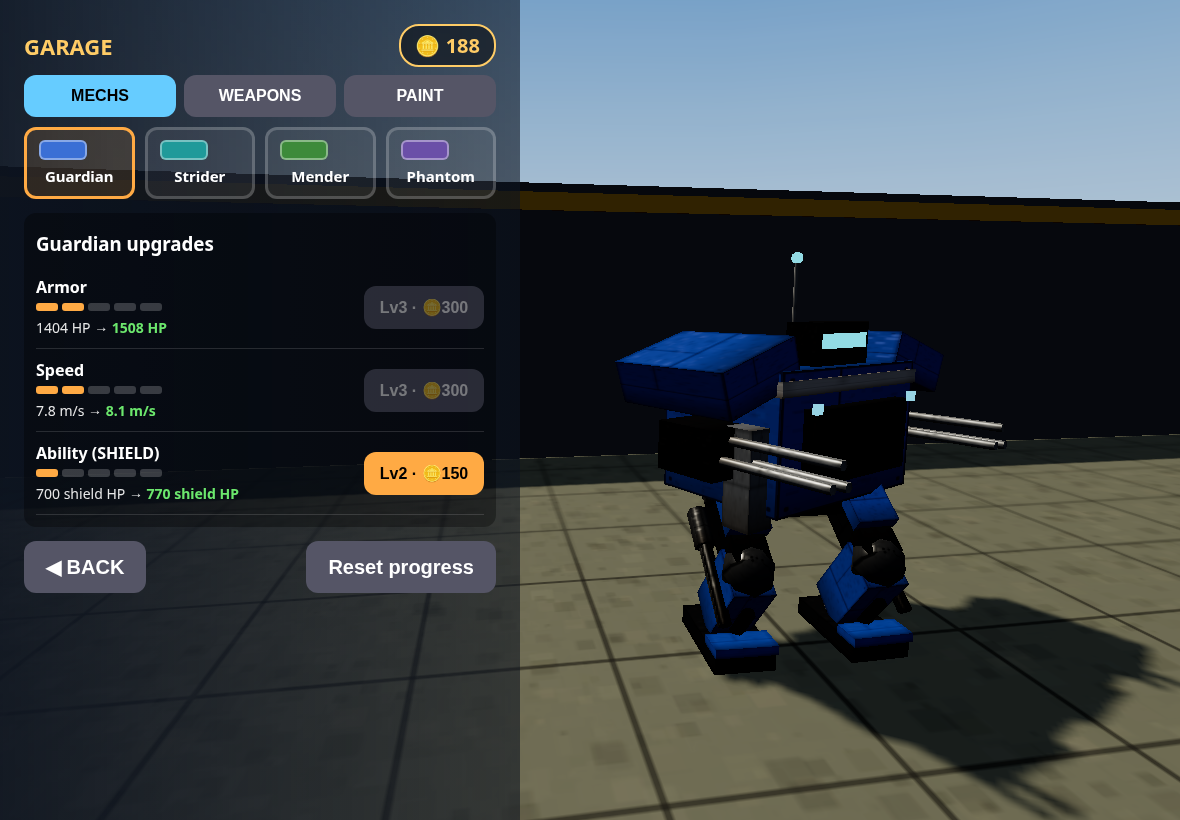
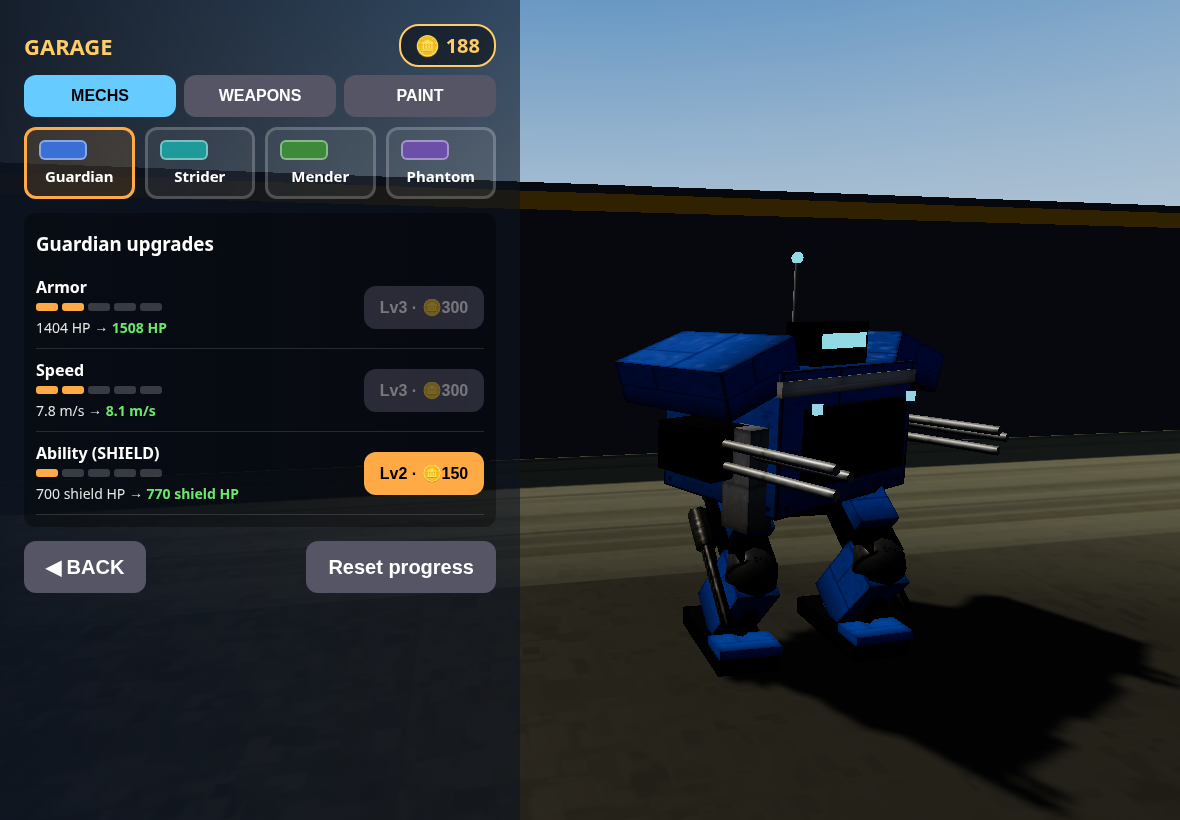
v10: 6 maps (5 new, larger), random/pick map, seeded props, minimap, AI avoidance, instanced props

Changed region(s): [[0.3051, 0.4878, 1.0, 1.0], [0.7322, 0.2439, 1.0, 0.3049], [0.0915, 0.1829, 0.1525, 0.2134]]

diff --git a/game.js b/game.js
@@ -110,21 +110,9 @@ function reward(win,why){const E=CFG.econ,md=settings.mode,mul=md==='duel'?E.due
  if(win&&why==='Enemy base captured')rows.push(['Base captured',E.capture]);
  let tot=rows.reduce((s,r)=>s+r[1],0);if(mul!==1){const x=Math.round(tot*mul)-tot;rows.push([`${CFG.diff[settings.diff].name} difficulty ×${mul}`,x]);tot+=x;}
  SAVE.coins+=tot;SAVE.earned+=tot;if(win)SAVE.wins++;persist();return {rows,tot};}
-const A=60;// half size
+let A=60;// half size (per map)
 function tex(w,h,draw,rep){const c=document.createElement('canvas');c.width=w;c.height=h;draw(c.getContext('2d'),w,h);const t=new THREE.CanvasTexture(c);t.colorSpace=THREE.SRGBColorSpace;if(rep){t.wrapS=t.wrapT=THREE.RepeatWrapping;t.repeat.set(rep,rep);}return t;}
 // gradient sky
-const skyT=tex(8,256,(g,w,h)=>{const gr=g.createLinearGradient(0,0,0,h);gr.addColorStop(0,'#1e3a68');gr.addColorStop(.35,'#4f7db5');gr.addColorStop(.5,'#a9c3dc');gr.addColorStop(.53,'#e8dcc0');gr.addColorStop(1,'#6b6352');g.fillStyle=gr;g.fillRect(0,0,w,h);});
-const skyDome=new THREE.Mesh(new THREE.SphereGeometry(200,24,12),new THREE.MeshBasicMaterial({map:skyT,side:THREE.BackSide,fog:false,depthWrite:false}));S.add(skyDome);
-{const sun=new THREE.Mesh(new THREE.SphereGeometry(6,12,8),new THREE.MeshBasicMaterial({color:0xfff4d0,fog:false}));sun.position.set(30,50,20).normalize().multiplyScalar(190);skyDome.add(sun);}
-// environment map for metal reflections (PMREM of the sky dome)
-{const es=new THREE.Scene();es.add(skyDome.clone());const pm=new THREE.PMREMGenerator(R);S.environment=pm.fromScene(es,0.04).texture;pm.dispose();}
-S.background=new THREE.Color(0x8fb4d8);
-S.fog=new THREE.Fog(0xb9bfc0,50,150);
-// procedural ground: concrete tiles + dirt noise + painted lines
-const groundT=tex(256,256,(g,w,h)=>{g.fillStyle='#6d6f5e';g.fillRect(0,0,w,h);for(let i=0;i<900;i++){g.fillStyle=`rgba(${Math.random()<.5?'40,40,30':'150,145,120'},${Math.random()*.15})`;const r=Math.random()*10;g.fillRect(Math.random()*w,Math.random()*h,r,r);}
- g.strokeStyle='rgba(30,30,25,.55)';g.lineWidth=2;for(let i=0;i<=4;i++){g.beginPath();g.moveTo(i*64,0);g.lineTo(i*64,h);g.moveTo(0,i*64);g.lineTo(w,i*64);g.stroke();}},12);
-const groundR=tex(128,128,(g,w,h)=>{g.fillStyle='#ddd';g.fillRect(0,0,w,h);for(let i=0;i<500;i++){const v=150+Math.random()*105|0;g.fillStyle=`rgb(${v},${v},${v})`;g.fillRect(Math.random()*w,Math.random()*h,3+Math.random()*8,3+Math.random()*8);}},24);groundR.colorSpace=THREE.NoColorSpace;
-const ground=new THREE.Mesh(new THREE.PlaneGeometry(A*2,A*2),new THREE.MeshStandardMaterial({map:groundT,roughnessMap:groundR,roughness:1,metalness:0}));ground.rotation.x=-Math.PI/2;ground.receiveShadow=true;S.add(ground);
 const LEG={hipY:2.5,L1:1.2,L2:1.2,foot:.25,idleKnee:.25,strideRate:1.5};
 const jointG=new THREE.SphereGeometry(.34,8,6),pistonG=new THREE.CylinderGeometry(.09,.09,1,6);
 // mech metal: PBR with procedural panel lines + grime (map) and roughness variation
@@ -137,33 +125,123 @@ const M=(c,o={})=>new THREE.MeshStandardMaterial({color:c,map:panelT,roughnessMa
 const antG=new THREE.CylinderGeometry(.04,.04,1.3,4),barrelG=new THREE.CylinderGeometry(.1,.1,1.4,6),tubeG=new THREE.CylinderGeometry(.13,.13,.15,6),flashG=new THREE.ConeGeometry(.35,1,6);
 const _mc={};const MS={metal:M(0x9aa0a6),dark:M(0x111111),flash:new THREE.MeshBasicMaterial({color:0xffe080}),
  stripe:c=>_mc['s'+c]||(_mc['s'+c]=M(c===0x3a7bd5?0xf0f0f0:0x111111)),visor:c=>_mc['v'+c]||(_mc['v'+c]=new THREE.MeshBasicMaterial({color:c===0x3a7bd5?0x40e0ff:0xff4020}))};
-const boxG=new THREE.BoxGeometry(1,1,1);
-const obst=[];// {x,z,hx,hz,h}
+// ================= MAPS (v10) =================
+const skyC=document.createElement('canvas');skyC.width=8;skyC.height=256;const skyT=new THREE.CanvasTexture(skyC);skyT.colorSpace=THREE.SRGBColorSpace;
+function paintSky(st){const g=skyC.getContext('2d'),gr=g.createLinearGradient(0,0,0,256);st.forEach(([o,c])=>gr.addColorStop(o,c));g.fillStyle=gr;g.fillRect(0,0,8,256);skyT.needsUpdate=true;}
+paintSky([[0,'#1e3a68'],[.35,'#4f7db5'],[.5,'#a9c3dc'],[.53,'#e8dcc0'],[1,'#6b6352']]);
+const skyDome=new THREE.Mesh(new THREE.SphereGeometry(200,24,12),new THREE.MeshBasicMaterial({map:skyT,side:THREE.BackSide,fog:false,depthWrite:false}));skyDome.renderOrder=-1;S.add(skyDome);
+const sunM=new THREE.Mesh(new THREE.SphereGeometry(6,12,8),new THREE.MeshBasicMaterial({color:0xfff4d0,fog:false}));sunM.position.set(30,50,20).normalize().multiplyScalar(190);skyDome.add(sunM);
+let envRT=null;function bakeEnv(){const es=new THREE.Scene();const d=skyDome.clone();d.scale.setScalar(1);d.position.set(0,0,0);es.add(d);const pm=new THREE.PMREMGenerator(R);if(envRT)envRT.dispose();envRT=pm.fromScene(es,0.04);S.environment=envRT.texture;pm.dispose();}
+S.background=new THREE.Color(0x8fb4d8);S.fog=new THREE.Fog(0xb9bfc0,50,150);
+const groundR=tex(128,128,(g,w,h)=>{g.fillStyle='#ddd';g.fillRect(0,0,w,h);for(let i=0;i<500;i++){const v=150+Math.random()*105|0;g.fillStyle=`rgb(${v},${v},${v})`;g.fillRect(Math.random()*w,Math.random()*h,3+Math.random()*8,3+Math.random()*8);}},24);groundR.colorSpace=THREE.NoColorSpace;
+const groundMat=new THREE.MeshStandardMaterial({roughnessMap:groundR,roughness:1,metalness:0});
+const ground=new THREE.Mesh(new THREE.PlaneGeometry(1,1),groundMat);ground.rotation.x=-Math.PI/2;ground.receiveShadow=true;S.add(ground);
+let rnd=Math.random;function seeded(s){return()=>{s|=0;s=s+0x6D2B79F5|0;let t=Math.imul(s^s>>>15,1|s);t=t+Math.imul(t^t>>>7,61|t)^t;return((t^t>>>14)>>>0)/4294967296;};}
+const R2=(a,b)=>a+rnd()*(b-a);
+function groundTex(th){return tex(256,256,(g,w,h)=>{g.fillStyle=th.g[0];g.fillRect(0,0,w,h);for(let i=0;i<1100;i++){g.fillStyle=Math.random()<.5?th.g[1]:th.g[2];g.globalAlpha=Math.random()*.18;const r=Math.random()*12;g.fillRect(Math.random()*w,Math.random()*h,r,r*(th.streak||1));}g.globalAlpha=1;
+ if(th.lines){g.strokeStyle=th.lines;g.lineWidth=2;for(let i=0;i<=4;i++){g.beginPath();g.moveTo(i*64,0);g.lineTo(i*64,h);g.moveTo(0,i*64);g.lineTo(w,i*64);g.stroke();}}
+ if(th.ripple){g.strokeStyle=th.ripple;g.lineWidth=2;for(let y=0;y<h;y+=14){g.beginPath();for(let x=0;x<=w;x+=8)g.lineTo(x,y+Math.sin(x/20+y)*4);g.stroke();}}});}
+const MAPG=new THREE.Group();S.add(MAPG);
+const boxG=new THREE.BoxGeometry(1,1,1),pillarG=new THREE.CylinderGeometry(.9,1.1,8,8),rockG=new THREE.DodecahedronGeometry(1,0),domeG=new THREE.SphereGeometry(1,16,8,0,Math.PI*2,0,Math.PI/2),cylG=new THREE.CylinderGeometry(1,1,1,12),poleG=new THREE.CylinderGeometry(.12,.15,6,6),bulbG=new THREE.SphereGeometry(.35,8,6);
+const obst=[];const obstMeshes=[];// {x,z,hx,hz,h,m}
 const winT=tex(64,64,(g,w,h)=>{g.fillStyle='#8a8478';g.fillRect(0,0,w,h);for(let y=0;y<2;y++)for(let x=0;x<2;x++){g.fillStyle=Math.random()<.3?'#ffd98a':'#1d2630';g.fillRect(x*32+8,y*32+8,16,14);}g.fillStyle='#6a655c';g.fillRect(0,30,64,3);});
 const crateT=tex(64,64,(g,w,h)=>{g.fillStyle='#8b6a3c';g.fillRect(0,0,w,h);g.strokeStyle='#5a4220';g.lineWidth=6;g.strokeRect(3,3,58,58);g.beginPath();g.moveTo(0,0);g.lineTo(64,64);g.stroke();});
 const contT=tex(128,64,(g,w,h)=>{g.fillStyle='#fff';g.fillRect(0,0,w,h);for(let x=0;x<w;x+=8){g.fillStyle='rgba(0,0,0,.25)';g.fillRect(x,0,3,h);}});
-const matCache={};function mat(c,map){const key=c+(map?map.uuid:'');return matCache[key]||(matCache[key]=new THREE.MeshStandardMaterial({color:c,map,roughness:0.85,metalness:0.05}));}
-function solid(x,z,w,d,h,material,ry=0){const m=new THREE.Mesh(boxG,material);m.scale.set(w,h,d);m.position.set(x,h/2,z);m.rotation.y=ry;m.castShadow=m.receiveShadow=true;S.add(m);if(ry){const t=w;if(Math.abs(Math.sin(ry))>.7){w=d;d=t;}}obst.push({x,z,hx:w/2,hz:d/2,h,m});return m;}
+const rockT=tex(64,64,(g,w,h)=>{g.fillStyle='#fff';g.fillRect(0,0,w,h);for(let i=0;i<300;i++){g.fillStyle=`rgba(0,0,0,${Math.random()*.2})`;g.fillRect(Math.random()*w,Math.random()*h,2+Math.random()*8,1+Math.random()*3);}});
+const matCache={};function mat(c,map,o){const key=c+(map?map.uuid:'')+(o?JSON.stringify(o):'');return matCache[key]||(matCache[key]=new THREE.MeshStandardMaterial({color:c,map,roughness:0.85,metalness:0.05,...(o||{})}));}
+// instanced batching: every static prop is collected and drawn as one InstancedMesh per (geometry,material)
+let batch=new Map();const _o=new THREE.Object3D();
+function put(geo,material,x,y,z,sx,sy,sz,ry=0,shadow=true){const k=geo.uuid+material.uuid;let b=batch.get(k);if(!b){b={geo,material,mats:[],shadow,col:[]};batch.set(k,b);}_o.position.set(x,y,z);_o.rotation.set(0,ry,0);_o.scale.set(sx,sy,sz);_o.updateMatrix();b.mats.push(_o.matrix.clone());return b;}
+function solid(x,z,w,d,h,material,ry=0,y0=0){const b=put(boxG,material,x,y0+h/2,z,w,h,d,ry);if(ry&&Math.abs(Math.sin(ry))>.7){const t=w;w=d;d=t;}const o={x,z,hx:w/2,hz:d/2,h:y0+h};obst.push(o);b.col.push(o);return o;}
+function deco(geo,material,x,y,z,sx,sy,sz,ry){put(geo,material,x,y,z,sx,sy??sx,sz??sx,ry);}
+function flushBatch(){for(const b of batch.values()){const im=new THREE.InstancedMesh(b.geo,b.material,b.mats.length);b.mats.forEach((m,i)=>im.setMatrixAt(i,m));im.castShadow=b.shadow;im.receiveShadow=true;im.computeBoundingSphere();MAPG.add(im);if(b.col.length){b.col.forEach(o=>o.m=im);obstMeshes.push(im);}}batch=new Map();}
 function wall(x,z,w,d,h,c=0x8a8a80){return solid(x,z,w,d,h,mat(c));}
-function building(x,z,w,d,h){const t=winT.clone();t.needsUpdate=true;t.wrapS=t.wrapT=THREE.RepeatWrapping;t.repeat.set(Math.round(w/3),Math.round(h/3));solid(x,z,w,d,h,new THREE.MeshStandardMaterial({map:t,roughness:.8,metalness:.1}));const r=new THREE.Mesh(boxG,mat(0x4a4a48));r.scale.set(w+.4,.4,d+.4);r.position.set(x,h+.2,z);S.add(r);}
-function ruin(x,z,len,horiz){const n=4,seg=len/n;for(let i=0;i<n;i++){const h=1.5+Math.random()*3.5,o=-len/2+seg*(i+.5);horiz?solid(x+o,z,seg,1.2,h,mat(0x9a8f78)):solid(x,z+o,1.2,seg,h,mat(0x9a8f78));}}
+const bldMats={};function building(x,z,w,d,h,c=0x8a8478){const k=Math.round(w/3)+'_'+Math.round(h/3)+c;let m=bldMats[k];if(!m){const t=winT.clone();t.needsUpdate=true;t.wrapS=t.wrapT=THREE.RepeatWrapping;t.repeat.set(Math.round(w/3),Math.round(h/3));m=bldMats[k]=new THREE.MeshStandardMaterial({map:t,color:new THREE.Color(c).lerp(new THREE.Color(0xffffff),.5),roughness:.8,metalness:.1});}
+ solid(x,z,w,d,h,m);deco(boxG,mat(0x4a4a48),x,h+.2,z,w+.4,.4,d+.4);}
+function ruin(x,z,len,horiz,c=0x9a8f78){const n=4,seg=len/n;for(let i=0;i<n;i++){const h=1.5+rnd()*3.5,o=-len/2+seg*(i+.5);horiz?solid(x+o,z,seg,1.2,h,mat(c)):solid(x,z+o,1.2,seg,h,mat(c));}}
 function crate(x,z,s=2){solid(x,z,s,s,s,mat(0xffffff,crateT));}
-function container(x,z,horiz,c){horiz?solid(x,z,8,3,3,mat(c,contT)):solid(x,z,3,8,3,mat(c,contT));}
-function pillar(x,z){const m=new THREE.Mesh(pillarG,mat(0x9a9890));m.position.set(x,4,z);m.castShadow=m.receiveShadow=true;S.add(m);obst.push({x,z,hx:.9,hz:.9,h:8,m});}
-function platform(x,z,w,d){solid(x,z,w,d,1.6,mat(0x7d7a70));const rl=new THREE.Mesh(boxG,mat(0xc8a030));rl.scale.set(w,.3,.3);rl.position.set(x,1.9,z-d/2+.15);S.add(rl);}
-const pillarG=new THREE.CylinderGeometry(.9,1.1,8,8);
-// boundary: tall walls with hazard trim
-for(const [x,z,w,d] of [[0,-A,A*2,2],[0,A,A*2,2],[-A,0,2,A*2],[A,0,2,A*2]]){wall(x,z,w,d,8,0x5a5d62);const t=new THREE.Mesh(boxG,mat(0xd0a020));t.scale.set(w+.1,.5,d+.1);t.position.set(x,7.5,z);S.add(t);}
-building(0,0,9,9,10);building(-38,-38,10,8,12);building(38,38,8,10,11);building(-40,36,8,8,9);building(40,-36,9,8,13);
-ruin(-25,-20,12,true);ruin(25,20,12,true);ruin(-25,22,12,false);ruin(25,-22,12,false);
-container(0,-34,true,0xb03a2e);container(0,34,true,0x2e6bb0);container(-44,0,false,0x2e8a4a);container(44,0,false,0xc07a20);
-crate(-12,12);crate(-10,13.5,1.5);crate(12,-12);crate(13.7,-10.5,1.5);crate(14,14);crate(-14,-14);crate(-30,5,2.5);crate(30,-5,2.5);
-pillar(-18,0);pillar(18,0);pillar(0,-18);pillar(0,18);
-platform(-12,-36,6,4);platform(12,36,6,4);
-// lamp props (emissive only, no real lights)
-{const poleG=new THREE.CylinderGeometry(.12,.15,6,6),bulbG=new THREE.SphereGeometry(.35,8,6),bm=new THREE.MeshBasicMaterial({color:0xfff2b0}),pm=mat(0x333333);
- for(const [x,z] of [[-20,-45],[20,-45],[-20,45],[20,45],[-50,-20],[50,20],[-50,20],[50,-20]]){const p=new THREE.Mesh(poleG,pm);p.position.set(x,3,z);const b=new THREE.Mesh(bulbG,bm);b.position.set(x,6.1,z);S.add(p,b);}}
-const obstMeshes=obst.map(o=>o.m);
+function container(x,z,horiz,c,stack=1){for(let i=0;i<stack;i++)horiz?solid(x,z,8,3,3,mat(c,contT),0,i*3):solid(x,z,3,8,3,mat(c,contT),0,i*3);}
+function pillar(x,z,c=0x9a9890){deco(pillarG,mat(c),x,4,z,1,1,1);obst.push({x,z,hx:.9,hz:.9,h:8,m:null,pil:1});}
+function platform(x,z,w,d){solid(x,z,w,d,1.6,mat(0x7d7a70));deco(boxG,mat(0xc8a030),x,1.9,z-d/2+.15,w,.3,.3);}
+function rock(x,z,s,c,h){h=h||s*1.2;deco(rockG,mat(c,rockT),x,h*.45,z,s,h*.6,s,rnd()*6);obst.push({x,z,hx:s*.75,hz:s*.75,h:h*.9,m:null});}
+function mesa(x,z,w,d,h,c){solid(x,z,w,d,h,mat(c,rockT));for(let i=0;i<3;i++)deco(rockG,mat(c,rockT),x+R2(-w/2,w/2),R2(.5,h*.5),z+(rnd()<.5?-1:1)*d/2,R2(1.5,3));}
+function stairsX(xe,z,dir,w,top){const n=Math.ceil(top/.38);for(let i=1;i<n;i++)solid(xe+dir*(i-.5)*1.3,z,1.3,w,top*(n-i)/n,mat(0x8a6a50,rockT));}
+function dome(x,z,r,c){deco(domeG,mat(c,null,{metalness:.3,roughness:.4}),x,0,z,r,r*.8,r);obst.push({x,z,hx:r*.7,hz:r*.7,h:r*.8,m:null});}
+function tank(x,z,r,h,c){deco(cylG,mat(c,null,{metalness:.5,roughness:.5}),x,h/2,z,r,h,r);obst.push({x,z,hx:r*.85,hz:r*.85,h,m:null});}
+function lamp(x,z,c=0xfff2b0){deco(poleG,mat(0x333333),x,3,z,1,1,1);deco(bulbG,new THREE.MeshBasicMaterial({color:c}),x,6.1,z,1);}
+function border(c=0x5a5d62,h=8,trim=0xd0a020){for(const [x,z,w,d] of [[0,-A,A*2,2],[0,A,A*2,2],[-A,0,2,A*2],[A,0,2,A*2]]){wall(x,z,w,d,h,c);deco(boxG,mat(trim),x,h-.5,z,w+.1,.5,d+.1);}}
+// reserved zones: keep spawn lanes and bases clear
+function free(x,z,r){if(Math.abs(x)>A-r-3||Math.abs(z)>A-r-3)return false;if(Math.abs(x)<14+r&&Math.abs(z)>A-22-r)return false;for(const o of obst)if(Math.abs(x-o.x)<o.hx+r+3&&Math.abs(z-o.z)<o.hz+r+3)return false;return true;}
+function scatter(n,r,fn,tries=40){for(let i=0;i<n;i++)for(let t=0;t<tries;t++){const x=R2(-A,A),z=R2(-A,A);if(free(x,z,r)){fn(x,z);break;}}}
+function mirror(fn){fn(1);fn(-1);}// point-symmetric layouts for fairness
+const MAPS={
+ arena:{name:'Arena',A:60,sky:[[0,'#1e3a68'],[.35,'#4f7db5'],[.5,'#a9c3dc'],[.53,'#e8dcc0'],[1,'#6b6352']],bg:0x8fb4d8,fog:[0xb9bfc0,50,150],hemi:[0xcfe0ff,0x5a5040,.7],sun:[0xfff0d8,2.6],
+  ground:{g:['#6d6f5e','rgb(40,40,30)','rgb(150,145,120)'],lines:'rgba(30,30,25,.55)'},rep:12,
+  build(){border();building(0,0,9,9,10);building(-38,-38,10,8,12);building(38,38,8,10,11);building(-40,36,8,8,9);building(40,-36,9,8,13);
+  ruin(-25,-20,12,true);ruin(25,20,12,true);ruin(-25,22,12,false);ruin(25,-22,12,false);
+  container(0,-34,true,0xb03a2e);container(0,34,true,0x2e6bb0);container(-44,0,false,0x2e8a4a);container(44,0,false,0xc07a20);
+  crate(-12,12);crate(-10,13.5,1.5);crate(12,-12);crate(13.7,-10.5,1.5);crate(14,14);crate(-14,-14);crate(-30,5,2.5);crate(30,-5,2.5);
+  pillar(-18,0);pillar(18,0);pillar(0,-18);pillar(0,18);platform(-12,-36,6,4);platform(12,36,6,4);
+  for(const [x,z] of [[-20,-45],[20,-45],[-20,45],[20,45],[-50,-20],[50,20],[-50,20],[50,-20]])lamp(x,z);}},
+ desert:{name:'Desert Outpost',A:85,sky:[[0,'#3b6fb0'],[.4,'#8bb6dd'],[.5,'#f2dcb0'],[.53,'#e6c48a'],[1,'#a07a48']],bg:0xe8d2a8,fog:[0xe6cfa0,60,175],hemi:[0xfff0d0,0x9a7040,.8],sun:[0xffe6b8,3],
+  ground:{g:['#c9a46a','rgb(150,110,60)','rgb(240,210,150)'],ripple:'rgba(140,100,50,.25)'},rep:16,
+  build(){border(0xb08a58,7,0x7a5a30);mirror(s=>{mesa(s*32,s*-10,16,12,9,0xb06a3a);mesa(s*-45,s*30,12,18,11,0xa8643a);mesa(s*8,s*38,10,8,6,0xb87444);
+   solid(s*-22,s*-30,10,5,2.6,mat(0x8a8060));solid(s*22,s*14,5,10,2.6,mat(0x8a8060));// bunkers
+   ruin(s*55,s*-45,14,false,0xc0a070);container(s*-60,s*-8,false,0x9a6a30);platform(s*14,s*-58,7,4);
+   for(const [x,z] of [[-10,0],[10,0]])solid(s*x,s*z+s*8,6,2,1.6,mat(0x9a8a60));});
+   solid(0,0,8,8,5,mat(0x8a7a58));deco(boxG,mat(0x5a4a30),0,5.3,0,9,.6,9);
+   scatter(16,2,(x,z)=>rock(x,z,R2(1.6,3.2),0xa86c40));scatter(10,1.2,(x,z)=>crate(x,z,R2(1.5,2.4)));
+   for(let i=0;i<14;i++){const x=R2(-A,A),z=R2(-A,A);deco(domeG,mat(0xd8b47a),x,-.15,z,R2(4,9),R2(.3,.55),R2(4,9),rnd()*3);}}},
+ city:{name:'Ruined City',A:80,sky:[[0,'#3a3e48'],[.4,'#6a6e76'],[.5,'#a09a90'],[.53,'#8a847a'],[1,'#3e3a36']],bg:0x8a8a88,fog:[0x8f8c86,35,135],hemi:[0xc8ccd8,0x4a4440,.75],sun:[0xffe8d0,2],
+  ground:{g:['#4a4c50','rgb(30,30,32)','rgb(110,110,105)'],lines:'rgba(220,200,90,.5)'},rep:14,
+  build(){border(0x4a4c52,10,0x9a2020);// city blocks with streets every 32 m, alleys inside
+   for(const bx of [-48,-16,16,48])for(const bz of [-36,-4,28]){if(Math.abs(bx)<20&&Math.abs(bz)>30)continue;const n=1+(rnd()*2|0);
+    for(let i=0;i<n;i++){const w=R2(7,11),d=R2(7,11),ox=n>1?(i?5:-5):R2(-2,2);const x=bx+ox,z=bz+R2(-3,3);if(!free(x,z,Math.max(w,d)/2-3))continue;
+     rnd()<.25?(ruin(x,z,w,true,0x7a7470),ruin(x,z+d/2,d,false,0x7a7470)):building(x,z,w,d,R2(10,24),[0x9a9490,0x7a6e66,0x8a8a92][rnd()*3|0]);}}
+   scatter(26,1.5,(x,z)=>{const r=rnd();r<.45?deco(rockG,mat(0x6a6660,rockT),x,.4,z,R2(1,2.2),R2(.5,1),R2(1,2.2)):r<.7?solid(x,z,R2(3,6),1.2,R2(1,2.2),mat(0x77706a),rnd()<.5?0:Math.PI/2):container(x,z,rnd()<.5,0x8a3a2a);});
+   scatter(10,1,(x,z)=>{solid(x,z,4,2,1.4,mat(0x3a5a7a));deco(boxG,mat(0x222222),x,1.6,z,3.4,.6,1.6);});// wrecked cars
+   for(const x of [-64,-32,0,32,64])for(const z of [-60,60])if(Math.abs(x)>20)lamp(x,z,0xffc070);}},
+ port:{name:'Industrial Port',A:90,sky:[[0,'#24466e'],[.4,'#6b90b8'],[.5,'#c8d4dc'],[.53,'#9aa6ae'],[1,'#3a4650']],bg:0xa8b8c4,fog:[0xa6b4bc,45,165],hemi:[0xd0e0f0,0x405060,.8],sun:[0xfff4e0,2.4],
+  ground:{g:['#7a7c78','rgb(50,52,50)','rgb(140,140,130)'],lines:'rgba(40,40,40,.45)'},rep:18,
+  build(){for(const [x,z,w,d] of [[0,-A,A*2,2],[0,A,A*2,2],[-A,0,2,A*2]]){wall(x,z,w,d,8,0x5a6068);deco(boxG,mat(0xe0b020),x,7.5,z,w+.1,.5,d+.1);}
+   solid(A,0,2,A*2,1.2,mat(0x44403a));for(let z=-A+6;z<A;z+=12)deco(cylG,mat(0x222222),A-1.5,.8,z,.4,1.6,.4);// quay edge + bollards
+   const wat=new THREE.Mesh(new THREE.PlaneGeometry(160,A*2+200),new THREE.MeshStandardMaterial({color:0x1d4a66,roughness:.15,metalness:.6}));wat.rotation.x=-Math.PI/2;wat.position.set(A+80,-.6,0);MAPG.add(wat);
+   const cc=[0xb03a2e,0x2e6bb0,0x2e8a4a,0xc07a20,0x6a4a8a,0x8a8a8a];
+   mirror(s=>{for(let r=0;r<3;r++)for(let c=0;c<2;c++){const x=s*(20+c*10+R2(-1,1)),z=s*(-20+r*16);if(rnd()<.85)container(x,z,false,cc[rnd()*6|0],1+(rnd()<.4));}
+    building(s*-55,s*-45,22,14,12,0x8a8a92);building(s*-60,s*35,16,22,10,0x7a8088);
+    for(let i=0;i<3;i++)container(s*(-24-i*9),s*48,true,cc[rnd()*6|0]);platform(s*45,s*55,8,4);tank(s*65,s*-62,4,7,0xc8c8c0);});
+   for(const z of [-30,30]){for(const dx of [-3,3])for(const dz of [-3,3])solid(70+dx,z+dz,1,1,18,mat(0xd0a020,null,{metalness:.6,roughness:.5}));deco(boxG,mat(0xd0a020),70-6,19,z,30,1.4,1.6);}// cranes
+   scatter(14,1.2,(x,z)=>crate(x,z,R2(1.5,2.5)));for(const z of [-75,-25,25,75])lamp(80,z);}},
+ arctic:{name:'Arctic Base',A:80,sky:[[0,'#5a7aa0'],[.4,'#a8c0d8'],[.5,'#e8f0f8'],[.53,'#dfe8f0'],[1,'#b0c0cc']],bg:0xd8e4ee,fog:[0xdce6ee,30,125],hemi:[0xe8f0ff,0x8090a0,.95],sun:[0xf0f6ff,2.2],
+  ground:{g:['#e4ecf2','rgb(170,190,205)','rgb(255,255,255)'],streak:.3},rep:14,
+  build(){border(0x8a9aa8,7,0x2a7ac0);mirror(s=>{dome(s*-30,s*-20,8,0xe0e4e8);dome(s*40,s*8,6,0xd0d8e0);dome(s*-50,s*45,5,0xe0e4e8);
+   building(s*15,s*-40,14,8,7,0x8a98a8);solid(s*-15,s*25,12,3,3,mat(0x5a6a7a));tank(s*55,s*-35,3,6,0xb04030);
+   container(s*-62,s*-5,false,0x2a6aa0);platform(s*30,s*45,7,4);});
+   pillar(-12,0,0xc0d0dc);pillar(12,0,0xc0d0dc);solid(0,0,4,14,4,mat(0xa8c8e0,rockT,{roughness:.2,metalness:.1}));
+   scatter(22,2,(x,z)=>rock(x,z,R2(1.6,3.5),0xb8d8ec));for(let i=0;i<12;i++){const x=R2(-A,A),z=R2(-A,A);deco(domeG,mat(0xf4f8fc),x,-.15,z,R2(4,10),R2(.3,.55),R2(4,10));}
+   for(const [x,z] of [[-25,-60],[25,60],[-60,0],[60,0]])lamp(x,z,0xa0e0ff);}},
+ canyon:{name:'Canyon Valley',A:95,sky:[[0,'#2c5a96'],[.4,'#7aa6d0'],[.5,'#f0c8a0'],[.53,'#c08060'],[1,'#6a3a24']],bg:0xd0a888,fog:[0xd4a888,55,180],hemi:[0xffe0c8,0x6a3a24,.8],sun:[0xffd8b0,2.8],
+  ground:{g:['#a8683e','rgb(110,60,30)','rgb(200,140,90)'],streak:.4},rep:18,
+  build(){border(0x8a4a2a,14,0x5a2a14);// canyon walls lining the valley, two raised plateaus with stairs + bridges
+   mirror(s=>{for(let i=0;i<6;i++){const z=-A+15+i*31;mesa(s*(A-12),z,R2(10,16),R2(16,24),R2(10,16),0x9a5430);}
+    solid(s*-30,s*-25,24,16,2.4,mat(0x9a5a34,rockT));stairsX(s*-18,s*-25,s,6,2.4);stairsX(s*-42,s*-25,-s,6,2.4);
+    solid(s*-30,s*0.5,4,35,2.4,mat(0x6a4a30));for(let k=-1;k<=1;k+=2)deco(boxG,mat(0x3a2a1a),s*-30+k*2,2.9,s*0.5,.2,1,35);// bridge/causeway
+    solid(s*-30,s*24,16,12,2.4,mat(0x9a5a34,rockT));stairsX(s*-22,s*24,s,5,2.4);mesa(s*15,s*-50,12,10,8,0xa05a34);mesa(s*30,s*30,10,14,9,0xa05a34);
+    ruin(s*10,s*20,12,true,0xb07a50);container(s*45,s*-5,false,0x6a6a5a);});
+   solid(0,0,10,4,3,mat(0x8a5a3a,rockT));scatter(22,2,(x,z)=>rock(x,z,R2(1.6,3.4),0xa06038));scatter(8,1.2,(x,z)=>crate(x,z,2));}}
+};
+const MAP_KEYS=Object.keys(MAPS);let MAP=null,mapKey=null;const HEMI=S.children.find(o=>o.isHemisphereLight);
+function applyDraw(){const f=MAP.fog,k=settings.gfx==='low'?.72:1;S.fog.near=f[1]*k;S.fog.far=f[2]*k;C.far=S.fog.far+15;C.updateProjectionMatrix();skyDome.scale.setScalar(C.far*.9/200);}
+function loadMap(key,seed){const m=MAPS[key];mapKey=key;MAP=m;A=m.A;rnd=seeded(seed??(Math.random()*1e9|0));
+ for(const c of [...MAPG.children]){MAPG.remove(c);if(c.isInstancedMesh)c.dispose();}obst.length=0;obstMeshes.length=0;
+ paintSky(m.sky);S.background.setHex(m.bg);S.fog.color.setHex(m.fog[0]);HEMI.color.setHex(m.hemi[0]);HEMI.groundColor.setHex(m.hemi[1]);HEMI.intensity=m.hemi[2];dl.color.setHex(m.sun[0]);dl.intensity=m.sun[1];
+ if(groundMat.map)groundMat.map.dispose();groundMat.map=groundTex(m.ground);groundMat.map.repeat.set(m.rep,m.rep);groundMat.needsUpdate=true;ground.scale.set(A*2,A*2,1);
+ m.build();flushBatch();
+ // non-batched collision shapes (rocks/domes/tanks/pillars) still need ray targets: map them to their instanced mesh by proximity is overkill; use invisible proxy boxes merged in one InstancedMesh
+ const px=obst.filter(o=>!o.m);if(px.length){const im=new THREE.InstancedMesh(boxG,new THREE.MeshBasicMaterial({visible:false}),px.length);px.forEach((o,i)=>{_o.position.set(o.x,o.h/2,o.z);_o.rotation.set(0,0,0);_o.scale.set(o.hx*2,o.h,o.hz*2);_o.updateMatrix();im.setMatrixAt(i,_o.matrix);o.m=im;});im.computeBoundingSphere();MAPG.add(im);obstMeshes.push(im);}
+ const bz=A-13;CFG.capture.bases={b:[0,bz],r:[0,-bz]};if(typeof BASES!=='undefined')for(const [t,[x,z]] of Object.entries(CFG.capture.bases)){const b=BASES[t];if(b){b.x=x;b.z=z;b.g.position.set(x,0,z);}}
+ bakeEnv();applyDraw();return m;}
+
 function blocked(x,z,r,y=0){for(const o of obst)if(o.h>y+0.4&&Math.abs(x-o.x)<o.hx+r&&Math.abs(z-o.z)<o.hz+r)return o;return null;}
 function groundAt(x,z,y){let g=0;for(const o of obst)if(o.h<=y+0.45&&o.h>g&&Math.abs(x-o.x)<o.hx+.5&&Math.abs(z-o.z)<o.hz+.5)g=o.h;return g;}
 function los(a,b){const d=b.clone().sub(a),L=d.length(),n=Math.ceil(L/1.5);for(let i=1;i<n;i++){const p=a.clone().addScaledVector(d,i/n);for(const o of obst)if(p.y<o.h&&Math.abs(p.x-o.x)<o.hx&&Math.abs(p.z-o.z)<o.hz)return false;}return true;}
@@ -301,7 +379,7 @@ const STATS={shots:0,hits:0,kills:0};
 const inp={mx:0,mz:0,fire:false,keys:{}};
 const foes=t=>U.filter(x=>x.alive&&x.team!==t),mates=t=>U.filter(x=>x.alive&&x.team===t);
 const LS='mechArenaLoadout',LS2='mechArenaSettings';let loadout={mech:'guardian',weapon:'minigun'};try{const l=JSON.parse(localStorage.getItem(LS));if(l&&CFG.mechs[l.mech]&&CFG.weapons[l.weapon])loadout=l;}catch(e){}
-let settings={mode:'team',diff:'normal',gfx:'high'};try{Object.assign(settings,JSON.parse(localStorage.getItem(LS2))||{});}catch(e){}
+let settings={mode:'team',diff:'normal',gfx:'high',map:'random'};try{Object.assign(settings,JSON.parse(localStorage.getItem(LS2))||{});}catch(e){}
 function saveLoadout(){try{localStorage.setItem(LS,JSON.stringify(loadout));localStorage.setItem(LS2,JSON.stringify(settings));}catch(e){}}
 function makeUnit(team,type,wpn,prof){const me=team==='b'&&!prof,T=me?upMech(type):CFG.mechs[type],W=me?upWpn(wpn):CFG.weapons[wpn];let pr=prof?Object.assign({},CFG.diff[prof]):null;
  if(pr&&team==='r'){const k=1+CFG.econ.enemyScale*progress();pr.hpMul*=k;pr.dmgMul*=k;pr.scale=k;}const u=mech(team,type,wpn);
@@ -335,13 +413,14 @@ function tickBases(dt){const K=CFG.capture;for(const b of Object.values(BASES)){
 function clearWorld(){for(const u of U)S.remove(u.g);if(P&&!U.includes(P))S.remove(P.g);B.forEach(b=>S.remove(b.m));FX.forEach(f=>{S.remove(f.m);f.m.material.dispose();});B=[];FX=[];U=[];P=null;SPEC=null;}
 const rk=o=>{const k=Object.keys(o);return k[Math.floor(Math.random()*k.length)];};
 function spawn(u,x,z,yaw){u.g.position.set(x,0,z);u.tYaw=u.legYaw=u.yaw=yaw;initFeet(u);U.push(u);}
-function newGame(){clearWorld();clock=0;endT=-1;result=null;STATS.shots=STATS.hits=STATS.kills=0;const md=settings.mode;
- P=makeUnit('b',loadout.mech,loadout.weapon,null);P.isPlayer=true;applyPaint(P,paintOf(loadout.mech));spawn(P,0,48,Math.PI);P.pitch=.05;camYaw=Math.PI;
+let lastMap=null;function pickMap(){if(settings.map!=='random'&&MAPS[settings.map])return settings.map;const k=MAP_KEYS.filter(k=>k!==lastMap);return k[Math.floor(Math.random()*k.length)];}
+function newGame(){clearWorld();lastMap=pickMap();loadMap(lastMap);const SZ=A-12;clock=0;endT=-1;result=null;STATS.shots=STATS.hits=STATS.kills=0;const md=settings.mode;
+ P=makeUnit('b',loadout.mech,loadout.weapon,null);P.isPlayer=true;applyPaint(P,paintOf(loadout.mech));spawn(P,0,SZ,Math.PI);P.pitch=.05;camYaw=Math.PI;
  const team=md!=='duel';
- if(team){const roles=md==='base'?['att','def']:['esc','esc'];[[-7,50],[7,50]].forEach(([x,z],i)=>{const a=makeUnit('b',rk(CFG.mechs),rk(CFG.weapons),CFG.allyProfile);a.role=roles[i];spawn(a,x,z,Math.PI);makePlate(a,true);});}
+ if(team){const roles=md==='base'?['att','def']:['esc','esc'];[[-7,SZ+2],[7,SZ+2]].forEach(([x,z],i)=>{const a=makeUnit('b',rk(CFG.mechs),rk(CFG.weapons),CFG.allyProfile);a.role=roles[i];spawn(a,x,z,Math.PI);makePlate(a,true);});}
  const n=team?3:1,eroles=md==='base'?['def','att','att']:['hunt','hunt','hunt'];
- for(let i=0;i<n;i++){const e=makeUnit('r',rk(CFG.mechs),rk(CFG.weapons),md==='duel'?settings.diff:CFG.enemyProfile);e.role=eroles[i];const sp=[[0,-48],[-7,-50],[7,-50]][i];spawn(e,sp[0],sp[1],0);makePlate(e,false);}
- showBases(md==='base');mode='play';showUI();}
+ for(let i=0;i<n;i++){const e=makeUnit('r',rk(CFG.mechs),rk(CFG.weapons),md==='duel'?settings.diff:CFG.enemyProfile);e.role=eroles[i];const sp=[[0,-SZ],[-7,-SZ-2],[7,-SZ-2]][i];spawn(e,sp[0],sp[1],0);makePlate(e,false);}
+ showBases(md==='base');mode='play';showUI();mapBanner();drawMiniBase();}
 // ---------- projectiles & effects ----------
 const PG={minigun:new THREE.BoxGeometry(.12,.12,1),railgun:new THREE.BoxGeometry(.18,.18,4),hornet:new THREE.BoxGeometry(.35,.35,1),shotgun:new THREE.BoxGeometry(.1,.1,.7)};
 const PM={minigun:new THREE.MeshBasicMaterial({color:0xffee66}),railgun:new THREE.MeshBasicMaterial({color:0x80e8ff}),hornet:new THREE.MeshBasicMaterial({color:0xffaa22}),shotgun:new THREE.MeshBasicMaterial({color:0xffcc88})};
@@ -443,7 +522,7 @@ function coverFrom(u,th){let best=null,bd=1e9;const p=u.g.position;for(const o o
   const cx=o.x+ax/al*(Math.max(o.hx,o.hz)+2.6),cz=o.z+az/al*(Math.max(o.hx,o.hz)+2.6),d=Math.hypot(cx-p.x,cz-p.z);if(d<bd&&d<35){bd=d;best=new THREE.Vector3(cx,0,cz);}}return best;}
 function aiTick(u,dt){const pr=u.prof,W=u.W,p=u.g.position,eye=eyeOf(u,new THREE.Vector3());
  u.scanT-=dt;if(u.scanT<=0||!u.tgt||!u.tgt.alive){u.scanT=.3;let best=null,bd=1e9;u.see=false;
-  for(const f of foes(u.team)){const d=f.g.position.distanceTo(p);if(d>90)continue;const vis=los(eye,eyeOf(f,_e));const sc=d*(vis?1:2.5)*(f===u.lastAtt?.7:1);if(sc<bd){bd=sc;best=f;u.see=vis;}}u.tgt=best;}
+  for(const f of foes(u.team)){const d=f.g.position.distanceTo(p);if(d>400)continue;const vis=los(eye,eyeOf(f,_e));const sc=d*(vis?1:2.5)*(f===u.lastAtt?.7:1);if(sc<bd){bd=sc;best=f;u.see=vis;}}u.tgt=best;}
  else u.see=los(eye,eyeOf(u.tgt,_e));
  const t=u.tgt,dist=t?t.g.position.distanceTo(p):1e9,see=t&&u.see;u.seeT=see?u.seeT+dt:0;
  // goals by role
@@ -453,7 +532,7 @@ function aiTick(u,dt){const pr=u.prof,W=u.W,p=u.g.position,eye=eyeOf(u,new THREE
    else if(u.role==='att')u.goal=new THREE.Vector3(eb.x+(Math.random()-.5)*5,0,eb.z+(Math.random()-.5)*5);
    else if(u.role==='esc'&&P&&P.alive&&(!t||dist>W.range*.9)){const s=u===U[1]?-1:1,c=Math.cos(P.tYaw),sn=Math.sin(P.tYaw);u.goal=new THREE.Vector3(P.g.position.x+s*6*c-sn*5,0,P.g.position.z-s*6*sn-c*5);}
    else if(t){const a=Math.atan2(p.x-t.g.position.x,p.z-t.g.position.z)+(Math.random()-.5)*1.6,r=Math.min(40,Math.max(14,W.range*.6))+Math.random()*6;u.goal=new THREE.Vector3(t.g.position.x+Math.sin(a)*r,0,t.g.position.z+Math.cos(a)*r);}
-   else u.goal=new THREE.Vector3((Math.random()-.5)*60,0,(Math.random()-.5)*60);}
+   else u.goal=new THREE.Vector3((Math.random()-.5)*A*1.4,0,(Math.random()-.5)*A*1.4);}
   // abilities
   if(Math.random()<pr.ability){if(u.T.jump&&t&&(!see||clock-u.lastHit<1))ability(u);if(u.T.dash&&t&&clock-u.lastHit<.6)ability(u);}
   if(pr.ability>=1&&u.T.shield&&u.shieldOn&&!(clock-u.lastHit<1.5))dropShield(u);}
@@ -462,6 +541,7 @@ function aiTick(u,dt){const pr=u.prof,W=u.W,p=u.g.position,eye=eyeOf(u,new THREE
  let wx=0,wz=0;if(u.goal){const dx=u.goal.x-p.x,dz=u.goal.z-p.z,l=Math.hypot(dx,dz);if(l>1.5){wx=dx/l;wz=dz/l;}}
  if(see&&pr.strafe>0&&!u.cover&&dist<W.range){u.strafeT-=dt;if(u.strafeT<=0){u.strafeT=.8+Math.random()*1.4;u.strafeD=-u.strafeD;}const tx=t.g.position.x-p.x,tz=t.g.position.z-p.z,l=Math.hypot(tx,tz)||1;
   wx+=-tz/l*u.strafeD*pr.strafe;wz+=tx/l*u.strafeD*pr.strafe;if(u.role!=='att'&&!u.goal||dist<W.range*.5){}}
+ if(wx||wz){const a0=Math.atan2(wx,wz),m=Math.hypot(wx,wz);if(blocked(p.x+Math.sin(a0)*3.2,p.z+Math.cos(a0)*3.2,1.4,p.y)){const sd=u.avoid||(u.avoid=Math.random()<.5?1:-1);for(const da of [.6,1.1,1.6,-.6,-1.1,-1.6]){const a=a0+da*sd;if(!blocked(p.x+Math.sin(a)*3.2,p.z+Math.cos(a)*3.2,1.4,p.y)){wx=Math.sin(a)*m;wz=Math.cos(a)*m;break;}}}else u.avoid=0;}
  const wl=Math.hypot(wx,wz);if(wl>1){wx/=wl;wz/=wl;}const bx=p.x,bz=p.z;drive(u,wx,wz,dt);if(wl>.3&&Math.hypot(p.x-bx,p.z-bz)<.002*Math.max(1,dt*60)){u.stuck=(u.stuck||0)+dt;if(u.stuck>.5){u.stuck=0;u.goal=new THREE.Vector3(p.x+(Math.random()-.5)*20,0,p.z+(Math.random()-.5)*20);u.think=1;}}
  // torso/aim with lead
  let ap=null;if(t){const tp=t.g.position,tof=W.hitscan?0:dist/W.speed;ap=new THREE.Vector3(tp.x+t.vel.x*tof*pr.lead,tp.y+2.8+(t.vel?0:0),tp.z+t.vel.z*tof*pr.lead);}
@@ -488,7 +568,7 @@ let last=performance.now(),menuA=0,fpsT=0,fpsN=0,fps=60,lowT=0;
 function loop(now){requestAnimationFrame(loop);const dt=Math.min(.05,(now-last)/1000);last=now;
  fpsT+=dt;fpsN++;if(fpsT>=.5){fps=fpsN/fpsT;fpsT=fpsN=0;if(mode==='play'&&settings.gfx==='high'&&!window.__noAuto){lowT=fps<CFG.gfx.autoFallbackFps?lowT+.5:0;if(lowT>=CFG.gfx.autoWindow){setGfx('low');toast('Low fps: graphics switched to LOW');}}}
  if(mode==='play')update(dt);else if(mode==='menu')menuTick(dt);else if(mode==='over'){for(const u of U)animMech(u,dt);}
- updFx(dt);if(mode!=='menu')cam(dt);R.render(S,C);}
+ updFx(dt);if(mode!=='menu')cam(dt);skyDome.position.copy(C.position);if(mode==='play')drawMini();R.render(S,C);}
 function update(dt){clock+=dt;const k=inp.keys;
  if(P.alive){let mx=inp.mx+((k.KeyD?1:0)-(k.KeyA?1:0)),mz=inp.mz+((k.KeyS?1:0)-(k.KeyW?1:0));
   if(k.ArrowLeft)P.yaw+=2*dt;if(k.ArrowRight)P.yaw-=2*dt;
@@ -540,7 +620,7 @@ function cam(dt){if(!P)return;const K=CFG.cam,f=(P.alive||!SPEC)?P:SPEC,p=f.g.po
  C.lookAt(p.x-bx*K.lookAhead-rx*K.side,p.y+3.5-pit*12,p.z-bz*K.lookAhead-rz*K.side);
  dl.position.set(p.x+SUN.x*60,SUN.y*60,p.z+SUN.z*60);dl.target.position.set(p.x,0,p.z);}
 // ---------- graphics quality ----------
-function setGfx(q){settings.gfx=q;saveLoadout();const g=CFG.gfx[q];R.setPixelRatio(Math.min(devicePixelRatio,g.pixelRatio));R.setSize(innerWidth,innerHeight);
+function setGfx(q){settings.gfx=q;if(MAP)applyDraw();saveLoadout();const g=CFG.gfx[q];R.setPixelRatio(Math.min(devicePixelRatio,g.pixelRatio));R.setSize(innerWidth,innerHeight);
  R.shadowMap.enabled=g.shadows;dl.castShadow=g.shadows;dl.shadow.mapSize.set(g.shadowMap,g.shadowMap);if(dl.shadow.map){dl.shadow.map.dispose();dl.shadow.map=null;}
  S.traverse(o=>{if(o.material){(Array.isArray(o.material)?o.material:[o.material]).forEach(m=>m.needsUpdate=true);}});if(mode==='menu')renderMenu();}
 let toastT=0;function toast(t){const el=$('toast');el.textContent=t;el.style.display='block';clearTimeout(toastT);toastT=setTimeout(()=>el.style.display='none',3000);}
@@ -601,11 +681,11 @@ function garage(){const Ms=CFG.mechs,Ws=CFG.weapons;let h=`<div class="gh"><h2>G
 function renderMenu(){const Ms=CFG.mechs,Ws=CFG.weapons,Md=CFG.modes;let h='';const md=Md[settings.mode];
  const gq=`<div class="gq">Graphics: <button data-gfx="high" class="${settings.gfx==='high'?'on':''}">HIGH</button><button data-gfx="low" class="${settings.gfx==='low'?'on':''}">LOW</button></div>`;
  if(menuStep==='title'){h=`<h1>MECH ARENA</h1>${coinTag()}<p class="sub">Win matches to earn coins. Upgrade and unlock gear in the Garage.</p>
-  <button class="big" data-go="mode">PLAY</button><button class="big alt" data-go="deploy">QUICK DEPLOY<br><small>${md.name}${settings.mode==='duel'?' ('+CFG.diff[settings.diff].name+')':''} · ${Ms[loadout.mech].name} + ${Ws[loadout.weapon].name}</small></button>
+  <button class="big" data-go="mode">PLAY</button><button class="big alt" data-go="deploy">QUICK DEPLOY<br><small>${md.name}${settings.mode==='duel'?' ('+CFG.diff[settings.diff].name+')':''} · ${settings.map==='random'?'Random map':MAPS[settings.map].name} · ${Ms[loadout.mech].name} + ${Ws[loadout.weapon].name}</small></button>
   <button class="big gar" data-go="garage">🔧 GARAGE</button>${gq}`;}
  else if(menuStep==='garage')h=garage();
  else if(menuStep==='mode'){h=`<h2>1 · SELECT MODE</h2><div class="cards">`+Object.entries(Md).map(([k,m])=>`<div class="card ${k===settings.mode?'sel':''}" data-mode="${k}"><div class="md">${m.sub}</div><b>${m.name}</b></div>`).join('')+`</div>
-  <div class="det"><h3>${md.name} <small>— ${md.sub}</small></h3><p>${md.desc}</p>${settings.mode==='duel'?`<div class="dif">`+Object.entries(CFG.diff).map(([k,d])=>`<button data-diff="${k}" class="${k===settings.diff?'on':''}">${d.name.toUpperCase()}</button>`).join('')+`</div><p class="ab">Coin reward ×${CFG.econ.duelMul[settings.diff]}</p>`:''}</div>
+  <div class="det"><h3>${md.name} <small>— ${md.sub}</small></h3><p>${md.desc}</p>${settings.mode==='duel'?`<div class="dif">`+Object.entries(CFG.diff).map(([k,d])=>`<button data-diff="${k}" class="${k===settings.diff?'on':''}">${d.name.toUpperCase()}</button>`).join('')+`</div><p class="ab">Coin reward ×${CFG.econ.duelMul[settings.diff]}</p>`:''}<div class="mapsel"><b>MAP</b>`+['random',...MAP_KEYS].map(k=>`<button data-map="${k}" class="${k===settings.map?'on':''}">${k==='random'?'🎲 RANDOM':MAPS[k].name.toUpperCase()}</button>`).join('')+`</div></div>
   <div class="row"><button data-go="title">BACK</button><button class="go" data-go="mech">NEXT ▶</button></div>`;}
  else if(menuStep==='mech'){h=`<div class="gh"><h2>2 · SELECT MECH</h2>${coinTag()}</div><div class="cards">`+Object.entries(Ms).map(([k,m])=>`<div class="card ${k===loadout.mech?'sel':''}" data-mech="${k}"><div class="sw" style="background:#${m.color.toString(16).padStart(6,'0')}"></div><b>${m.name}</b><small>${m.ability}</small>${lockTag(k)}</div>`).join('')+`</div>`;
   const m=upMech(loadout.mech);
@@ -617,16 +697,17 @@ function renderMenu(){const Ms=CFG.mechs,Ws=CFG.weapons,Md=CFG.modes;let h='';co
   <p>${w.desc}</p><p class="ab">Magazine ${w.mag} · reload ${w.reload}s${w.homing?` · lock ${w.lockTime}s · splash ${w.splash}m`:''}</p>${buyBox(loadout.weapon)}</div>
   <div class="row"><button data-go="mech">◀ BACK</button><button class="go" data-go="deploy" ${isLocked(loadout.weapon)?'disabled':''}>DEPLOY</button></div>`;}
  mc.innerHTML=h;}
-function goMenu(){clearWorld();showBases(false);mode='menu';menuStep='title';preview();renderMenu();showUI();}
+function goMenu(){clearWorld();if(mapKey!=='arena')loadMap('arena',7);showBases(false);mode='menu';menuStep='title';preview();renderMenu();showUI();}
 function showUI(){menu.style.display=mode==='menu'?'flex':'none';$('hud').style.display=mode==='play'?'block':'none';$('msg').style.display=mode==='over'?'flex':'none';
  const t=TOUCH&&mode==='play'?'':'none';for(const id of['joy','bMG','bAB','bRL'])$(id).style.display=t;$('hint').style.display=TOUCH||mode!=='play'?'none':'';
  if(mode==='play'){bAB.textContent=P.T.ability;bAB.classList.toggle('passive',!!P.T.regen);}}
-function menuClick(e){const el=e.target.closest('[data-go],[data-mech],[data-wpn],[data-mode],[data-diff],[data-gfx],[data-gtab],[data-gsel],[data-up],[data-buy],[data-paint],[data-reset]');if(!el||el.disabled)return;const d=el.dataset;
+function menuClick(e){const el=e.target.closest('[data-go],[data-mech],[data-wpn],[data-mode],[data-diff],[data-gfx],[data-gtab],[data-gsel],[data-up],[data-buy],[data-paint],[data-reset],[data-map]');if(!el||el.disabled)return;const d=el.dataset;
  if(!d.reset)resetArm=false;
  if(d.mech){loadout.mech=d.mech;saveLoadout();preview();}
  if(d.wpn){loadout.weapon=d.wpn;saveLoadout();preview();}
  if(d.mode){settings.mode=d.mode;saveLoadout();}if(d.diff){settings.diff=d.diff;saveLoadout();}
  if(d.gfx){setGfx(d.gfx);}
+ if(d.map){settings.map=d.map;saveLoadout();renderMenu();}
  if(d.gtab){gtab=d.gtab;gsel=null;}
  if(d.gsel){gsel=d.gsel;if(gtab!=='wpn'&&!isLocked(gsel)){loadout.mech=gsel;saveLoadout();preview();}else if(gtab==='wpn'&&!isLocked(gsel)){loadout.weapon=gsel;saveLoadout();preview();}}
  if(d.up){if(buyUp(gsel,d.up)){toast('Upgraded!');preview();}}
@@ -637,10 +718,10 @@ function menuClick(e){const el=e.target.closest('[data-go],[data-mech],[data-wpn
  renderMenu();}
 menu.addEventListener('click',menuClick);
 $('again').addEventListener('click',()=>newGame());$('tomenu').addEventListener('click',()=>goMenu());
-setGfx(settings.gfx);goMenu();requestAnimationFrame(loop);
+loadMap('arena',7);setGfx(settings.gfx);goMenu();requestAnimationFrame(loop);
 window.__game={THREE_V:THREE.Vector3,hurt,STATS,C,cam,obst,obstMeshes,BASES,CFG,get U(){return U},get E(){return foes('b')},get P(){return P},get B(){return B},get mode(){return mode},get fps(){return fps},get SPEC(){return SPEC},get settings(){return settings},
  ability:()=>ability(P),newGame,goMenu,setGfx,get loadout(){return loadout},setLoadout:(m,w)=>{loadout={mech:m,weapon:w};},
- startMatch:(md,df)=>{settings.mode=md;if(df)settings.diff=df;newGame();},setBaseProg:(t,v)=>{BASES[t].prog=v;},
+ startMatch:(md,df,mp)=>{settings.mode=md;if(df)settings.diff=df;if(mp)settings.map=mp;newGame();},MAPS,get mapKey(){return mapKey},loadMap,setBaseProg:(t,v)=>{BASES[t].prog=v;},
  killTeam:t=>{for(const u of U)if(u.team===t&&u.alive)hurt(u,1e6,null,null);},killUnit:u=>hurt(u,1e6,null,null),get SAVE(){return SAVE},buyUp,buyUnlock,buyPaint,resetProgress,upMech,upWpn,get reward(){return LAST_REWARD},renderMenu,go:s=>{menuStep=s;renderMenu();}};
 // barrel convergence: rotate each gun pivot so its +Z points at the aim point
 const _l=new THREE.Vector3();
@@ -659,3 +740,15 @@ function sweep(o,d,L,owner){let best=null;const H=CFG.hitbox;
  return best;}
 const beamG=new THREE.BoxGeometry(.12,.12,1);
 function beam(a,b,c){const m=new THREE.Mesh(beamG,new THREE.MeshBasicMaterial({color:c,transparent:true,depthWrite:false}));const l=a.distanceTo(b);m.position.copy(a).lerp(b,.5);m.scale.z=l;m.lookAt(b);S.add(m);FX.push({m,t:0,s:1,v:new THREE.Vector3(),grow:0,life:.2,op:.9,g:0,keep:1});}
+
+// ---------- map banner + minimap (v10) ----------
+function mapBanner(){const el=$('mapban');el.innerHTML=`<small>${CFG.modes[settings.mode].name}</small>${MAP.name}`;el.style.animation='none';void el.offsetWidth;el.style.animation='ban 3s forwards';}
+const mini=$('mini'),mctx=mini.getContext('2d'),mbase=document.createElement('canvas');mbase.width=mbase.height=mini.width;
+function drawMiniBase(){const W=mini.width,k=W/(2*A),g=mbase.getContext('2d');g.clearRect(0,0,W,W);g.fillStyle='rgba(10,20,30,.55)';g.fillRect(0,0,W,W);g.fillStyle='rgba(200,200,190,.55)';
+ for(const o of obst)if(o.h>1.5&&o.hx<A*.9&&o.hz<A*.9)g.fillRect((o.x-o.hx+A)*k,(o.z-o.hz+A)*k,Math.max(1,o.hx*2*k),Math.max(1,o.hz*2*k));
+ if(settings.mode==='base')for(const b of Object.values(BASES)){g.strokeStyle=b.team==='b'?'#4bf':'#f54';g.lineWidth=2;g.beginPath();g.arc((b.x+A)*k,(b.z+A)*k,CFG.capture.radius*k,0,7);g.stroke();}
+ g.strokeStyle='#fff8';g.lineWidth=2;g.strokeRect(1,1,W-2,W-2);}
+function drawMini(){const W=mini.width,k=W/(2*A);mctx.clearRect(0,0,W,W);mctx.drawImage(mbase,0,0);
+ for(const u of U){if(!u.alive)continue;const x=(u.g.position.x+A)*k,y=(u.g.position.z+A)*k;
+  if(u===P){mctx.save();mctx.translate(x,y);mctx.rotate(-P.tYaw+Math.PI);mctx.fillStyle='#fff';mctx.beginPath();mctx.moveTo(0,-7);mctx.lineTo(5,5);mctx.lineTo(-5,5);mctx.fill();mctx.restore();}
+  else{mctx.fillStyle=u.team==='b'?'#4bf':'#f54';mctx.beginPath();mctx.arc(x,y,4,0,7);mctx.fill();}}}

diff --git a/index.html b/index.html
@@ -70,12 +70,16 @@ canvas{display:block}
 #coins{font-size:18px;min-width:300px;margin:10px 0;background:#0008;border-radius:12px;padding:10px 16px}#coins:empty{display:none}
 .cr,.ct{display:flex;justify-content:space-between;gap:30px;padding:3px 0;opacity:0;animation:cin .35s forwards}.cr b{color:#fc6}.ct{border-top:1px solid #fff4;margin-top:4px;font-size:24px;animation-delay:.2s}.ct b{color:#fc6}
 .cb{font-size:15px;opacity:.8;text-align:right}@keyframes cin{from{opacity:0;transform:translateX(-10px)}to{opacity:1;transform:none}}
+#mini{position:absolute;top:12px;right:12px;width:150px;height:150px;border-radius:10px}
+#mapban{position:absolute;top:24%;left:50%;transform:translateX(-50%);font-size:38px;font-weight:bold;text-align:center;text-shadow:0 0 8px #000;opacity:0;letter-spacing:2px}#mapban small{display:block;font-size:15px;opacity:.8;letter-spacing:4px}
+@keyframes ban{0%{opacity:0;transform:translate(-50%,10px)}15%,75%{opacity:1;transform:translate(-50%,0)}100%{opacity:0}}
+.mapsel{display:flex;flex-wrap:wrap;gap:6px;align-items:center;margin-top:10px}.mapsel b{width:100%;font-size:13px;opacity:.8}#mc .mapsel button{font-size:12px;padding:9px 10px;flex:1 1 30%}#mc .mapsel button.on{background:#fa4;color:#000}
 </style></head><body>
 <div id="hud"><div id="aim"></div><div id="hp"><div id="hpf"></div></div><div id="info"></div>
 <div id="ammo"><div id="gunt">GUN</div><div class="bar"><div id="gunf"></div></div><div id="abt">ABILITY</div><div class="bar"><div id="abf"></div></div></div>
-<div id="teams"></div><div id="cap"><div id="capOt">YOUR BASE</div><div class="cb"><i id="capO"></i></div><div id="capEt">ENEMY BASE</div><div class="cb"><i id="capE"></i></div></div><div id="spec"></div><div id="toast"></div><div id="xh"></div><div id="rng"></div><div id="lock"></div>
+<div id="teams"></div><canvas id="mini" width="150" height="150"></canvas><div id="mapban"></div><div id="cap"><div id="capOt">YOUR BASE</div><div class="cb"><i id="capO"></i></div><div id="capEt">ENEMY BASE</div><div class="cb"><i id="capE"></i></div></div><div id="spec"></div><div id="toast"></div><div id="xh"></div><div id="rng"></div><div id="lock"></div>
 <div id="joy"><div id="knob"></div></div><div class="btn" id="bMG">FIRE</div><div class="btn" id="bAB">ABILITY</div><div class="btn" id="bRL">R</div></div>
 <div id="hint">WASD move · mouse aim (click to lock) · LMB/F fire · E/Shift/Space/RMB ability · R reload</div>
 <div id="menu"><div id="mc"></div></div>
 <div id="msg"><div id="mt"></div><div id="mm"></div><small id="ml"></small><div id="mk"></div><div id="coins"></div><button class="mb" id="again">PLAY AGAIN</button><button class="mb alt" id="tomenu">MAIN MENU</button></div>
-<script type="module" src="game.js?v=9"></script></body></html>
+<script type="module" src="game.js?v=10"></script></body></html>
